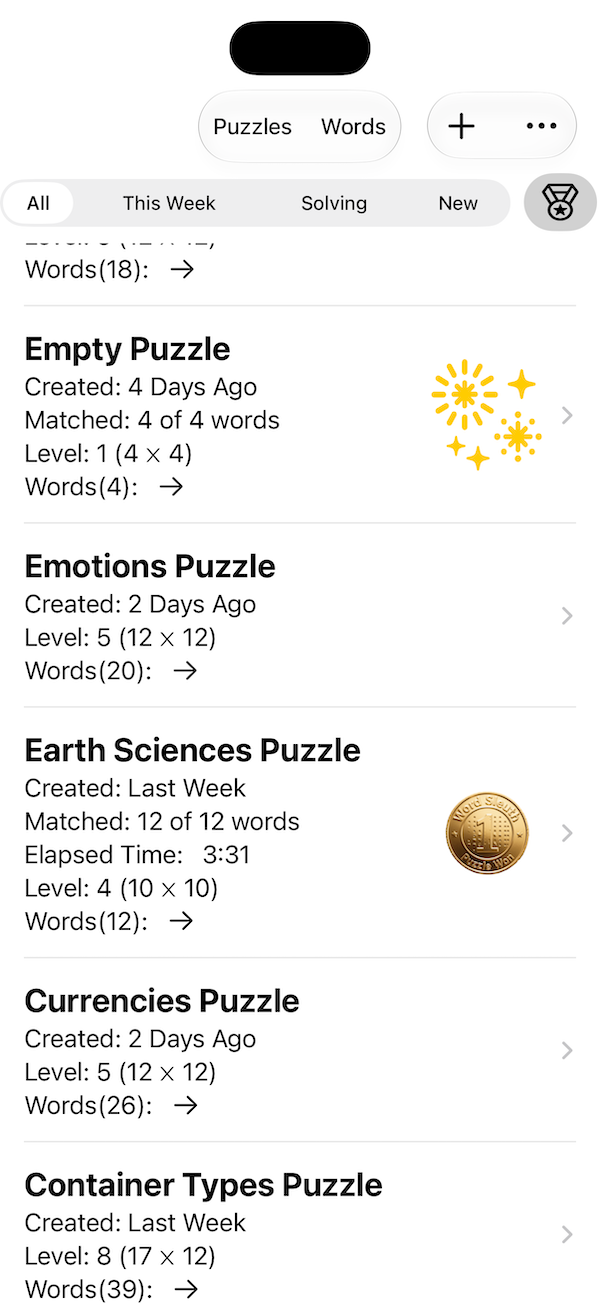
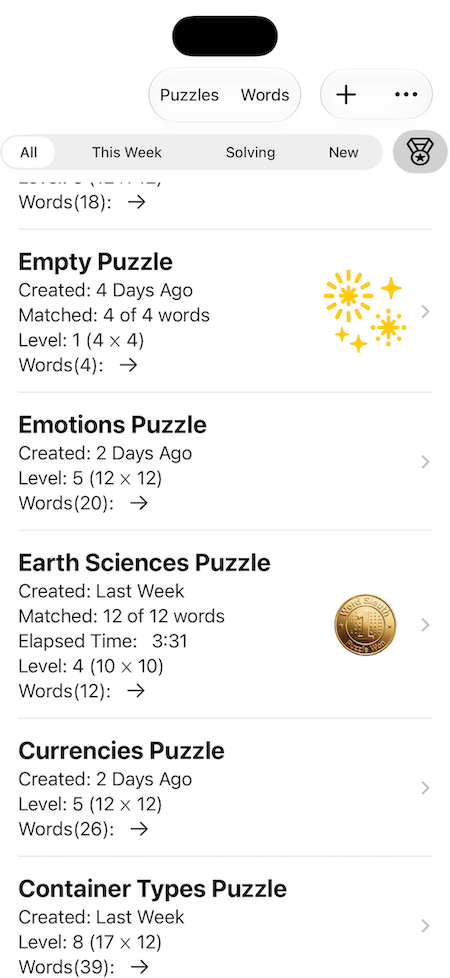
Updated image sizes.

diff --git a/Word Hunt/GUI/GameCreationView.swift b/Word Hunt/GUI/GameCreationView.swift
@@ -13,7 +13,7 @@ struct GameCreationView: View {
 	@Environment(DataContainer.self) private var dataContainer
 	
 	@State private var numberOfGames = 1
-	@State private var wordListOption = 1
+	@State private var wordListOption = 2
 	@State private var size = -2
 	@State private var sizes = [Int]()
 	@State private var minSize = Int(SettingsType.maxColRange.lowerBound)
@@ -61,9 +61,10 @@ struct GameCreationView: View {
 	
 				Section("Puzzle Level") {
 					Picker("Level:", selection: $level) {
-						ForEach(Level.allCases, id:\.self) { level in
+						ForEach(Level.allCases.dropFirst(), id:\.self) { level in
 							Text(level.localized).tag(level)
 						}
+						Image(systemName: "ellipsis").tag(Level.manual)
 					}
 					.pickerStyle(.segmented)
 					.onChange(of: level) { prev, newValue in
@@ -84,7 +85,7 @@ struct GameCreationView: View {
 						}
 					}
 					.onAppear {
-						size = prevLevel.size
+						size = showSize ? -2 : prevLevel.size
 					}
 					if size == -1 {
 						Stepper("Min: " + puzzleSize(size:minSize), value: $minSize, in: SettingsType.maxRowRange)
@@ -98,27 +99,28 @@ struct GameCreationView: View {
 						.onChange(of: sizeToAdd) {
 							if let size = sizeToAdd {
 								sizes.append(size)
+								sizeToAdd = nil
 							}
 						}
-						List(sizes, id: \.self) { size in
-							Text(puzzleSize(size:size))
+						List {
+							ForEach(sizes, id: \.self) { size in
+								Text(puzzleSize(size:size))
+							}
+							.onDelete { removeItems in
+								sizes.remove(atOffsets: removeItems)
+							}
 						}
 					}
 				}
-				.onTapGesture {
-					showSize.toggle()
-					if showSize { level = .manual }
-					else { level = prevLevel }
-				}
 		
-				Section("Word List to Use", isExpanded: $showWordList) {
+				Section("Word List to Use") {
 					Picker("Word List to Use:", selection: $wordListOption) {
 						Text("Random").tag(1)
 						Text("Selected").tag(2)
 					}
 					.pickerStyle(.segmented)
 					if wordListOption == 2 {
-						Picker("Choose:", selection: $wordList) {
+						Picker("Choose Word List:", selection: $wordList) {
 							ForEach(sortedWordList) { list in
 								Text(list.name).tag(list)
 							}
@@ -126,17 +128,19 @@ struct GameCreationView: View {
 						.onChange(of: wordList) {
 							if let words = wordList {
 								wordListsToUse.append(words)
+								wordList = nil // clear selection
 							}
 						}
 						
-						List(wordListsToUse, id: \.self) { list in
-							Text(list.name)
+						List {
+							ForEach(wordListsToUse, id: \.self) { list in
+								Text(list.name).tag(list)
+							}
+							.onDelete { removeItems in
+								wordListsToUse.remove(atOffsets: removeItems)
+							}
 						}
 					}
-				}
-				.onTapGesture {
-					showWordList.toggle()
-					if !showWordList { wordListOption = 1 }
 				}
 			}
 			.toolbar {

diff --git a/README.md b/README.md
@@ -94,7 +94,7 @@ The list menu (see below) allows setting user preferences; sharing the puzzle (i
 
 Below the puzzle/word selection is a filter selection giving the ability of displaying either *All*, *This Week*'s, *Solving*, or *New* puzzles. To the right is an award display button, which either shows the completed puzzles with awards or hides them.
 
-The puzzle list items, below, show the puzzle name, creation date, word matches (if applicable), elapsed time, difficulty level, and the words list used. Touching the *Words* or associated arrow will expand and/or hide the word list. If a puzzle has been solved, either a fireworks or a medallion appear to the right of the puzzle details. Tapping the fireworks or medallion displays your achievements view.
+The puzzle list items display the puzzle name, creation date, word matches (if applicable), elapsed time, difficulty level, and the words list used. Touching the *Words* or associated arrow will expand and/or hide the word list. If a puzzle has been solved, either a fireworks or a medallion appear to the right of the puzzle details. Tapping the fireworks or medallion displays your achievements view.
 
 ### Advanced Game Creation
 Normally the *+* button at the top of the puzzle list creates new puzzles based on the user preferences setting. However, if more control is needed over the content of a puzzle, the *Create Puzzles (Pro)* menu option provides this control (see below).
@@ -102,15 +102,19 @@ Normally the *+* button at the top of the puzzle list creates new puzzles based 
 ![Creation](img/Creation-light.png#gh-light-mode-only) 
 ![Creation](img/Creation-dark.png#gh-dark-mode-only) 
 
-As in the preferences, the number of puzzles you create and the puzzle difficulty level are selectable. In this case, however, if the difficulty is set to *Man*, additional configurations are possible.
-1) The puzzle size (difficulty) can be explicity set via a menu selection.
-2) The word list to use can either use the default random word list selection or a set of specific word lists that you select manually. Note: Random, in regard to word list selection, means that word lists are chosen by random, not that the words are randomly chosen. Several of the word lists, however, such as *Random 4-7* are composed of a set of randomly-selected words ranging in size from four to seven letters (in this case).
-To generate the puzzles, touch the *check-mark* icon or cancel the puzzle creation by touching the *x* icon. The puzzle creation is a background activity so, while the first puzzle is displayed and you can begin working on the solution, puzzles continue to be created in the background. If more puzzles are being generated than the chosen sizes or word lists, the existing choices are repeated. New puzzles are ordered in the list based on your ordering choice.
+As in the preferences, the number of puzzles you create and the puzzle difficulty level are selectable. In this case, however, if the difficulty is set to *...*, additional configurations are possible.
+1) The puzzle size (difficulty) can be explicity set via a menu selection. There are several options here as well: random sizes, selecting a set of sizes, choosing a range of sizes, or selecting just one size. When defining multiple puzzle sizes, each size can be deleted by swiping left on the size.
+2) The word list selector can either use the random word list selection or a set of specific word lists that you select manually. Individual word list choices can be deleted by swiping left on the list name. Note: Random, in regard to word list selection, means that word lists are chosen at random, not that the words are randomly chosen. However, several of the word lists such as *Random 4-7* are composed of a set of randomly-selected words ranging in size from four to seven letters (in this case).
+To generate the puzzles, touch the *check-mark* icon or cancel the puzzle creation by touching the *X* icon. Puzzle creation is a background activity so, while the first puzzle is displayed and you begin working on the solution, puzzles continue to be created in the background. If more puzzles are being generated than the chosen sizes or word lists, the existing choices are repeated. New puzzles are ordered in the list based on your ordering choice.
 
 ## Words List
-Touching the *Words* at the top of the list displays all available word lists (see below).
+Touching the *Words* at the top of the list displays all available word lists (see below). Each word list summary contains the number of words and language, the average and maximum length of the words, and a summary of the few lines of the word list.
 
+![WordList](img/WordList-light.png#gh-light-mode-only) 
+![WordList](img/WordList-dark.png#gh-dark-mode-only) 
 
+### Word List Editor
+Tapping on any word list opens up an editor view allowing the change of the active word list. Note: Any changes in the word list editor are immediately reflected in the actual word list. When making changes, it is usually best to rename the word list to avoid confusion with the original list. The original list is always regenerated during list updates. If you want to generate a new word list, tap on the *+* button at the top right of the word list view. This is a better option to avoid accidentally overwriting an existing list. Note: changing a word list *does not* modify any puzzles that may be based on the words in that list.
 
 ## License
 *Word Sleuth* source code is available under the BSL 1.1 license. See the [LICENSE](./LICENSE) file for more info.
